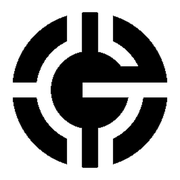
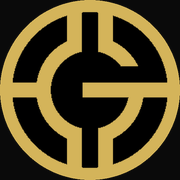
updates

diff --git a/index.html b/index.html
@@ -4,7 +4,7 @@
 <meta charset="utf-8" />
 <meta name="viewport" content="width=device-width, initial-scale=1, viewport-fit=cover" />
 <meta name="theme-color" content="#0A0A0A" />
-<link rel="icon" type="image/png" href="assets/icon.png" />
+<link rel="icon" type="image/png" href="assets/icon-gold.png" />
 <link rel="apple-touch-icon" href="assets/icon-180.png" />
 <link rel="manifest" href="manifest.webmanifest" />
 <title>Guitcoin</title>
@@ -88,8 +88,8 @@ const Settings = (p) => <IconBase {...p}><circle cx="12" cy="12" r="3"/><path d=
 const Filter = (p) => <IconBase {...p}><polygon points="22 3 2 3 10 12.46 10 19 14 21 14 12.46 22 3"/></IconBase>;
 const Utensils = (p) => <IconBase {...p}><path d="M3 2v7c0 1.1.9 2 2 2h4a2 2 0 0 0 2-2V2"/><path d="M7 2v20"/><path d="M21 15V2a5 5 0 0 0-5 5v6c0 1.1.9 2 2 2h3z"/><path d="M21 15v7"/></IconBase>;
 
-// Marca (logo G mira — assets/icon.png), mesmo papel do GgFlower no
-// Guitchelin: topbar e botão da gaveta (outline fechado, preenchido aberto).
+// Marca (logo G mira — assets/icon.png no círculo dourado via CSS), mesmo
+// papel do GgFlower no Guitchelin: topbar e botão da gaveta.
 function GcCoin({ outline = false, size = 22 }) {
   return (
     <span className={"gc-coin" + (outline ? " outline" : "")} style={{ width: size, height: size }} aria-hidden="true">
@@ -2420,6 +2420,7 @@ function App({ session }) {
 
   useEffect(() => {
     setTopbarFilterOpen(false);
+    setHubOpen(false);
   }, [subTab]);
 
   useEffect(() => {
@@ -2434,50 +2435,52 @@ function App({ session }) {
 
   return (
     <>
-      {hubOpen && (
-        <>
-          <div className="gc-hub-backdrop" onClick={() => setHubOpen(false)} />
-          <div className="gc-hub-sheet" role="dialog" aria-label="Navegação">
-            <div className="gc-hub-handle" aria-hidden="true" />
-            <div className="gc-hub-grid">
-              {GC_NAV_ITEMS.map(item => (
-                <button
-                  key={item.value}
-                  type="button"
-                  className={"gc-hub-item" + (subTab === item.value ? " active" : "")}
-                  onClick={() => openTab(item.value)}
-                >
-                  <span className="gc-hub-item-icon">{item.icon(22)}</span>
-                  <span>{item.label === "Lista de Sonhos" ? "Sonhos" : item.label}</span>
-                </button>
-              ))}
-            </div>
-            <div className="gc-hub-footer">
-              <button type="button" className="gc-hub-action danger" onClick={() => { if (!GC_IS_LOCAL && gcAuth) gcAuth.signOut(); }} aria-label="Sair">
-                <LogOut size={16} /> Sair
-              </button>
-            </div>
-          </div>
-        </>
-      )}
       <div className="gc-app">
         <header className="gc-topbar">
-          <button
-            type="button"
-            className={"gc-brand gc-brand-btn" + (hubOpen ? " open" : "")}
-            onClick={() => setHubOpen(o => !o)}
-            aria-label={hubOpen ? "Fechar menu" : "Abrir menu"}
-            aria-expanded={hubOpen}
-          >
-            <GcCoin size={22} />
-            <strong>Guitcoin</strong>
-            <ChevronDown size={16} className="gc-brand-chevron" />
-          </button>
+          <div className="gc-topbar-brand">
+            <button
+              type="button"
+              className={"gc-brand gc-brand-btn" + (hubOpen ? " open" : "")}
+              onClick={() => { setTopbarFilterOpen(false); setHubOpen(o => !o); }}
+              aria-label={hubOpen ? "Fechar menu" : "Abrir menu"}
+              aria-expanded={hubOpen}
+              aria-haspopup="dialog"
+            >
+              <GcCoin size={22} />
+              <strong>Guitcoin</strong>
+              <ChevronDown size={16} className="gc-brand-chevron" />
+            </button>
+            {hubOpen && (
+              <>
+                <div className="gc-hub-backdrop" onClick={() => setHubOpen(false)} />
+                <div className="gc-hub-popover" role="dialog" aria-label="Navegação">
+                  <div className="gc-hub-grid">
+                    {GC_NAV_ITEMS.map(item => (
+                      <button
+                        key={item.value}
+                        type="button"
+                        className={"gc-hub-item" + (subTab === item.value ? " active" : "")}
+                        onClick={() => openTab(item.value)}
+                      >
+                        <span className="gc-hub-item-icon">{item.icon(22)}</span>
+                        <span>{item.label === "Lista de Sonhos" ? "Sonhos" : item.label}</span>
+                      </button>
+                    ))}
+                  </div>
+                  <div className="gc-hub-footer">
+                    <button type="button" className="gc-hub-action danger" onClick={() => { if (!GC_IS_LOCAL && gcAuth) gcAuth.signOut(); }} aria-label="Sair">
+                      <LogOut size={16} /> Sair
+                    </button>
+                  </div>
+                </div>
+              </>
+            )}
+          </div>
           <span className="gc-topbar-spacer" />
           {(subTab === "dashboard" || subTab === "receitas" || subTab === "despesas") ? (
             <div className="gc-topbar-filter">
               <button type="button" className={"lb-icon-btn" + (topbarFilterOpen ? " active" : "")}
-                onClick={() => setTopbarFilterOpen(o => !o)}
+                onClick={() => { setHubOpen(false); setTopbarFilterOpen(o => !o); }}
                 aria-label={subTab === "despesas" ? `Filtrar por mês (${competenciaLabel(despesasComp)})` : `Filtrar por ano (${subTab === "dashboard" ? dashboardAno : receitasAno})`}
                 aria-expanded={topbarFilterOpen}
                 aria-haspopup="dialog">
@@ -3090,18 +3093,25 @@ button.gc-list-row-btn:hover { background: var(--gc-surface-2); }
   position: fixed; top: 0; left: 0; right: 0; z-index: 50; height: var(--gc-topbar-h);
   display: flex; align-items: center; gap: var(--sp-3);
   padding: env(safe-area-inset-top, var(--gc-sat)) var(--sp-5) 0;
-  background: var(--gc-glass-bg); border-bottom: 1px solid var(--gc-line);
-  -webkit-backdrop-filter: blur(var(--gc-glass-blur)); backdrop-filter: blur(var(--gc-glass-blur));
+  background: transparent; border: none; pointer-events: none;
 }
+.gc-topbar > * { pointer-events: auto; }
 .gc-brand { display: flex; align-items: center; gap: 8px; font-family: 'Playfair Display', serif; font-size: 19px; color: var(--gc-ink); }
 .gc-brand strong { font-weight: 700; }
 .gc-brand-btn {
   display: inline-flex; align-items: center; gap: 6px; flex-shrink: 0;
-  background: none; border: none; padding: 4px 2px; margin: 0; cursor: pointer;
-  font-size: 20px; color: #F0E6C8; line-height: 1; position: relative;
+  background: var(--gc-glass-bg); border: 1px solid rgba(255,255,255,.12);
+  border-radius: var(--radius-pill); padding: 7px 12px 7px 10px; margin: 0; cursor: pointer;
+  font-size: 18px; color: #F0E6C8; line-height: 1; position: relative;
+  box-shadow: var(--shadow-sm);
+  -webkit-backdrop-filter: blur(var(--gc-glass-blur)); backdrop-filter: blur(var(--gc-glass-blur));
+  transition: background .15s, color .15s, border-color .15s;
 }
-.gc-brand-btn:hover { color: var(--gc-accent); }
-.gc-brand-btn.open { color: var(--gc-accent); }
+.gc-brand-btn:hover { color: var(--gc-accent); border-color: rgba(255,255,255,.2); }
+.gc-brand-btn.open {
+  color: var(--gc-accent); background: rgba(212,180,90,.18);
+  border-color: rgba(212,180,90,.35);
+}
 .gc-brand-chevron { color: inherit; opacity: .75; transition: transform .18s ease; }
 .gc-brand-btn.open .gc-brand-chevron { transform: rotate(180deg); }
 .gc-coin {
@@ -3110,9 +3120,22 @@ button.gc-list-row-btn:hover { background: var(--gc-surface-2); }
   background: var(--gc-accent);
 }
 .gc-coin img { display: block; width: 100%; height: 100%; object-fit: contain; filter: brightness(0); }
-.gc-topbar-spacer { flex: 1; }
+.gc-topbar-spacer { flex: 1; pointer-events: none; }
 .gc-topbar-filter { position: relative; flex-shrink: 0; z-index: 1; }
-.gc-topbar-filter .lb-icon-btn.active { color: var(--gc-accent); }
+.gc-topbar-filter .lb-icon-btn {
+  width: 38px; height: 38px; padding: 0;
+  align-items: center; justify-content: center;
+  background: var(--gc-glass-bg); border: 1px solid rgba(255,255,255,.12);
+  border-radius: var(--radius-pill); color: var(--gc-ink);
+  box-shadow: var(--shadow-sm);
+  -webkit-backdrop-filter: blur(var(--gc-glass-blur)); backdrop-filter: blur(var(--gc-glass-blur));
+  transition: background .15s, color .15s, border-color .15s;
+}
+.gc-topbar-filter .lb-icon-btn:hover { border-color: rgba(255,255,255,.2); color: var(--gc-ink); }
+.gc-topbar-filter .lb-icon-btn.active {
+  color: var(--gc-accent); background: rgba(212,180,90,.18);
+  border-color: rgba(212,180,90,.35);
+}
 .gc-topbar-filter-backdrop { position: fixed; inset: 0; z-index: 25; }
 .gc-topbar-filter-popover {
   position: absolute; top: calc(100% + 8px); right: 0; z-index: 26;
@@ -3127,30 +3150,23 @@ button.gc-list-row-btn:hover { background: var(--gc-surface-2); }
   color: var(--gc-ink-soft); margin-bottom: 4px; text-align: center;
 }
 
-.gc-hub-backdrop {
-  position: fixed; inset: var(--gc-topbar-h) 0 0 0; z-index: 40;
-  background: rgba(0,0,0,.5); -webkit-backdrop-filter: blur(4px); backdrop-filter: blur(4px);
-}
-.gc-hub-sheet {
-  position: fixed; left: 12px; right: 12px; bottom: calc(12px + env(safe-area-inset-bottom, var(--gc-sab)));
-  z-index: 45; max-height: min(70vh, 520px); overflow-y: auto;
-  padding: 10px 14px 16px;
-  border-radius: 24px;
-  background: var(--gc-glass-bg); border: 1px solid rgba(255,255,255,.14);
-  -webkit-backdrop-filter: blur(24px); backdrop-filter: blur(24px);
+.gc-topbar-brand { position: relative; flex-shrink: 0; z-index: 1; }
+.gc-hub-backdrop { position: fixed; inset: 0; z-index: 25; }
+.gc-hub-popover {
+  position: absolute; top: calc(100% + 8px); left: 0; z-index: 26;
+  min-width: 280px; max-width: min(340px, calc(100vw - 40px));
+  padding: 12px 12px 10px;
+  background: var(--gc-glass-bg); border: 1px solid var(--gc-line); border-radius: 16px;
   box-shadow: var(--shadow);
-  animation: gc-hub-in .22s ease;
+  -webkit-backdrop-filter: blur(var(--gc-glass-blur)); backdrop-filter: blur(var(--gc-glass-blur));
+  animation: gc-hub-in .18s ease;
 }
 @keyframes gc-hub-in {
-  from { transform: translateY(18px); opacity: 0; }
+  from { transform: translateY(-6px); opacity: 0; }
   to { transform: translateY(0); opacity: 1; }
 }
-.gc-hub-handle {
-  width: 36px; height: 4px; border-radius: 2px; background: rgba(255,255,255,.22);
-  margin: 4px auto 14px;
-}
 .gc-hub-grid {
-  display: grid; grid-template-columns: repeat(3, 1fr); gap: 10px 8px;
+  display: grid; grid-template-columns: repeat(3, 1fr); gap: 8px 6px;
 }
 .gc-hub-item {
   display: flex; flex-direction: column; align-items: center; gap: 6px;
